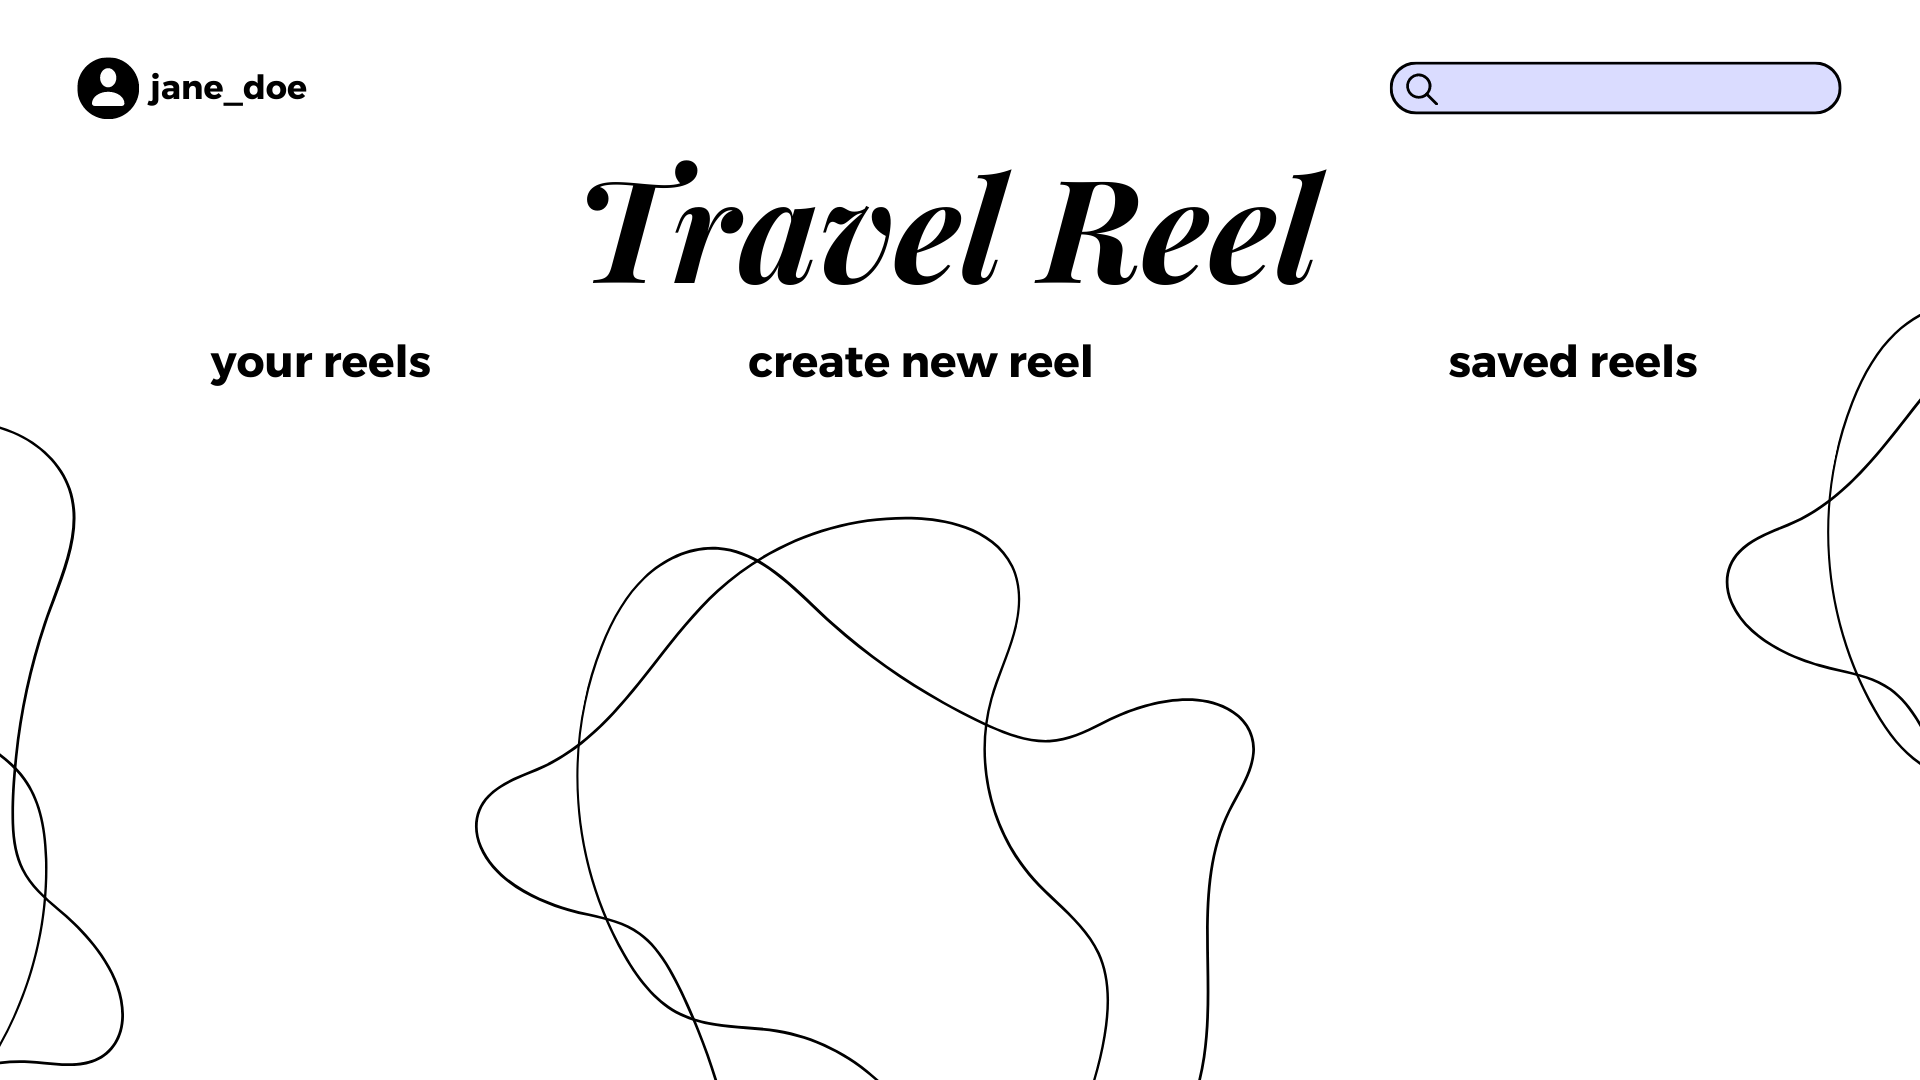
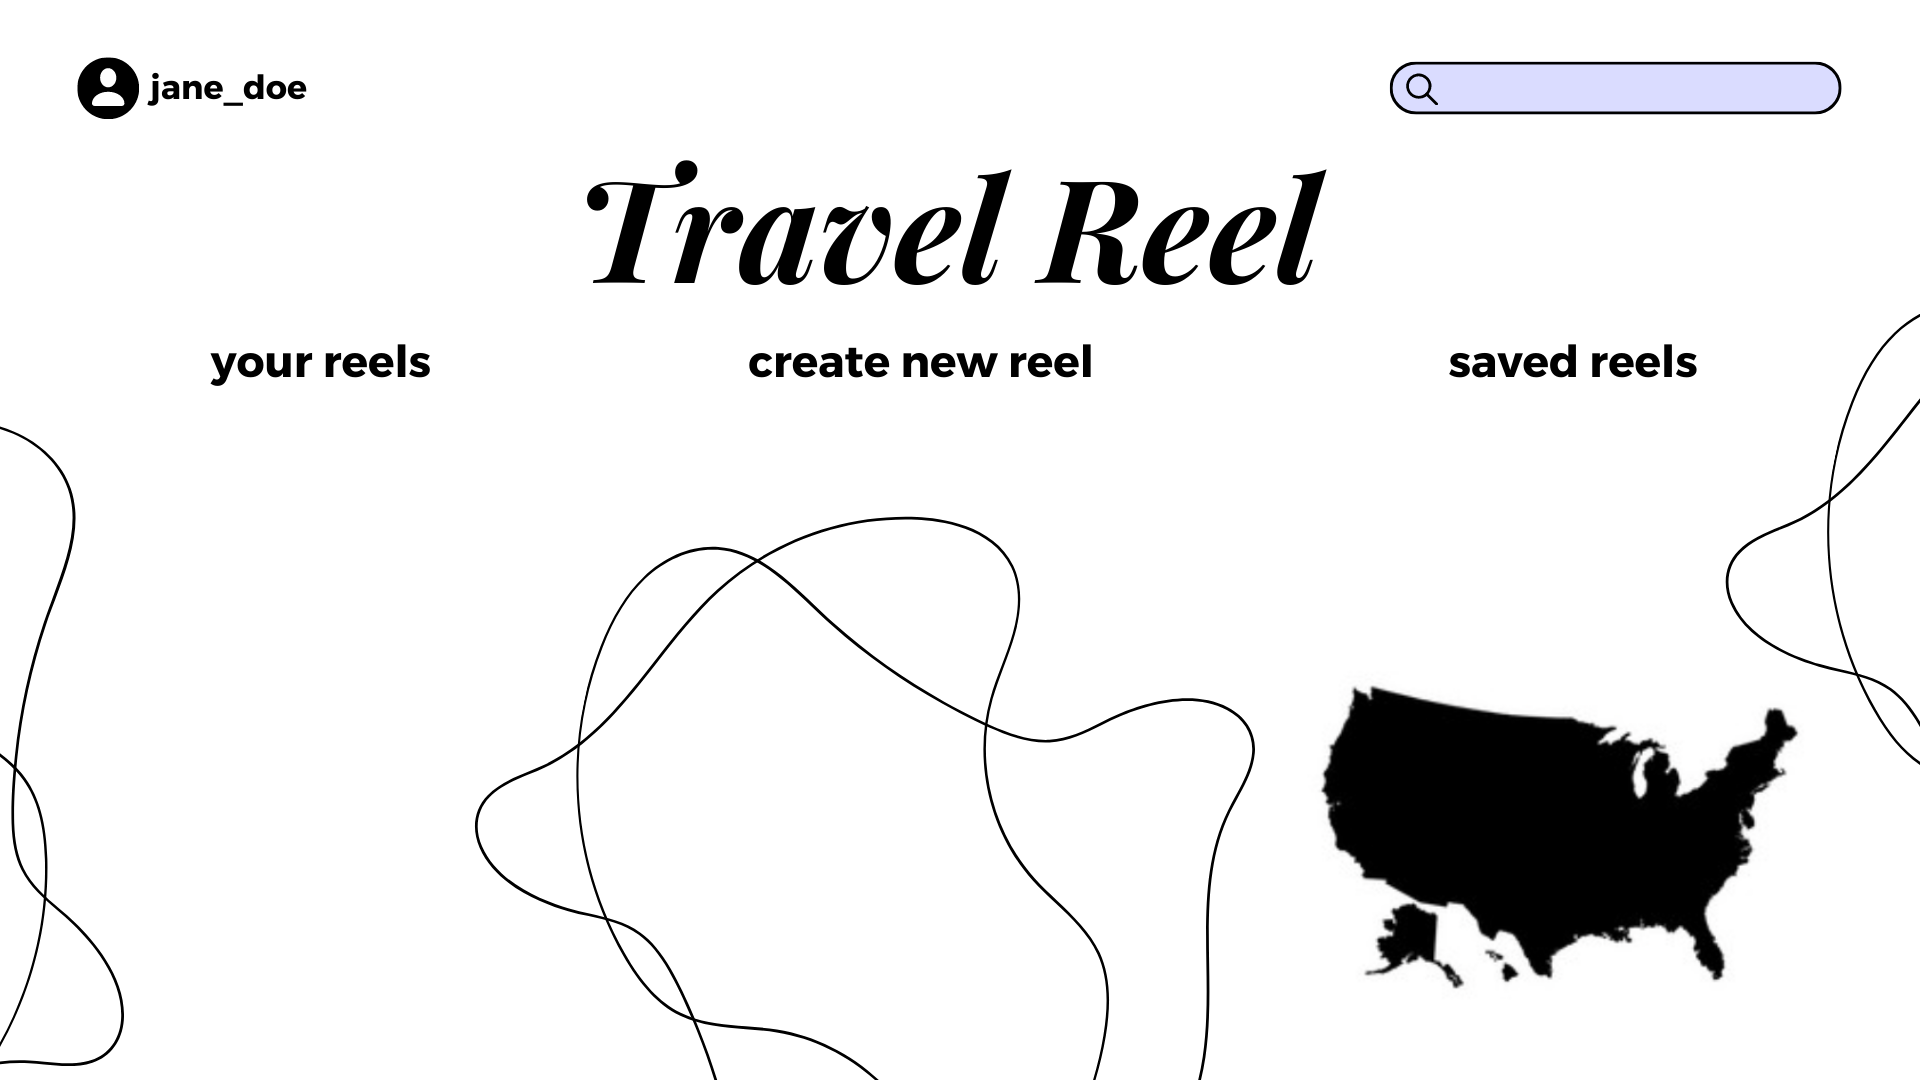
love peace

Changed region(s): [[0.6875, 0.6417, 0.9375, 0.9167]]

diff --git a/style.css b/style.css
@@ -132,7 +132,7 @@
 }
 
 .ViewMap_Button{
-    top: 70%;
-    left: 10%;
+    top: 73%;
+    right: 17%;
     position: absolute;
 }
